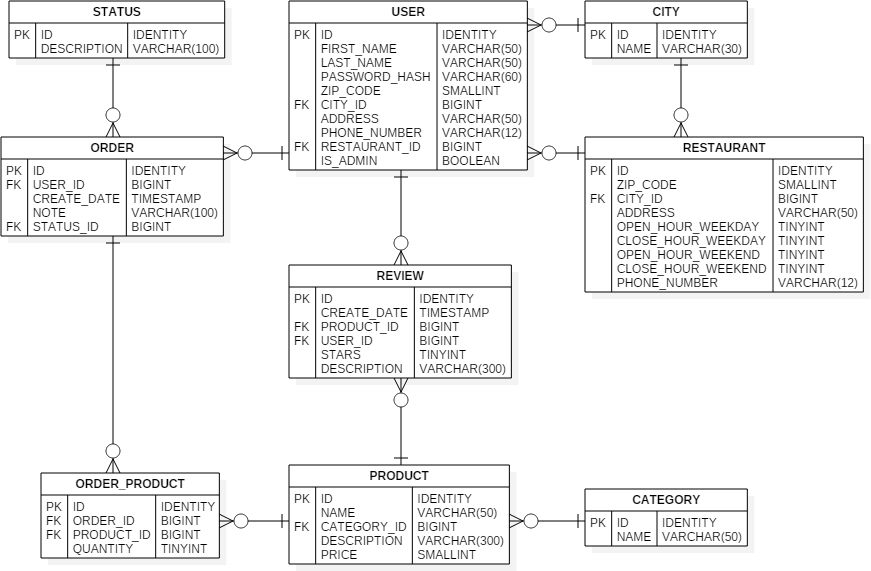
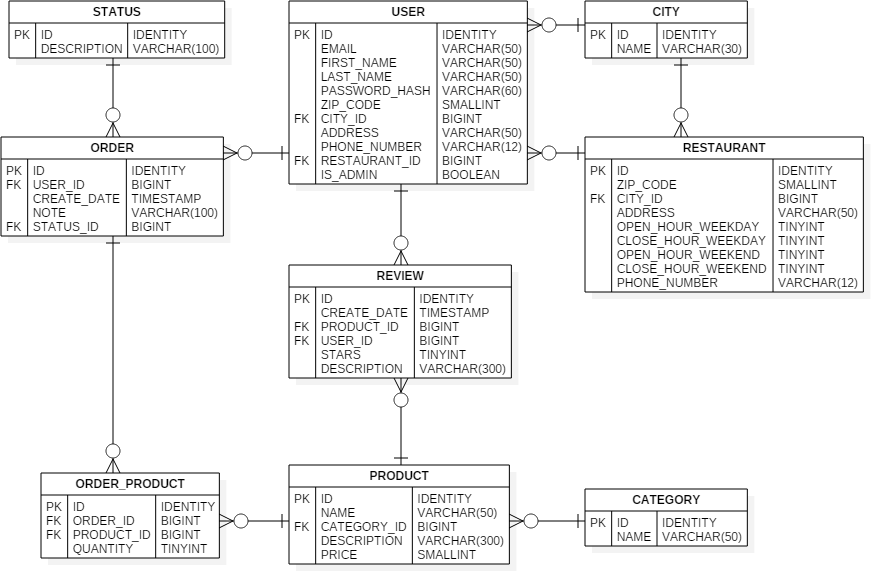
add 'email' field to 'user' table

Changed region(s): [[0.31, 0.0595, 0.62, 0.3275]]

diff --git a/server/restaurant/src/main/java/hu/elte/alkfejl/restaurant/entity/User.java b/server/restaurant/src/main/java/hu/elte/alkfejl/restaurant/entity/User.java
@@ -16,6 +16,9 @@ import java.util.List;
 public class User extends BaseEntity{
 
     @Column(nullable = false, length = 50)
+    private String email;
+
+    @Column(nullable = false, length = 50)
     private String lastName;
 
     @Column(nullable = false, length = 50)

diff --git a/README.md b/README.md
@@ -6,7 +6,7 @@
 
 ### Guest functions
 - sign up *to become an user*
-- log in *to be able to use non-guest functions*
+- log in using email and password *to be able to use non-guest functions*
 
 ### User functions
 - edit user settings *to change your preferred restaurant or your address*
@@ -24,6 +24,7 @@
 - remove product *to don't let customers order a discontinued product*
 
 ### Details
+- each email can only be used for one user
 - guests can sign up only with a city where there is a restaurant
 - users can review a product only if the user has already ordered it
 - users can place orders only when the restaurant is open
